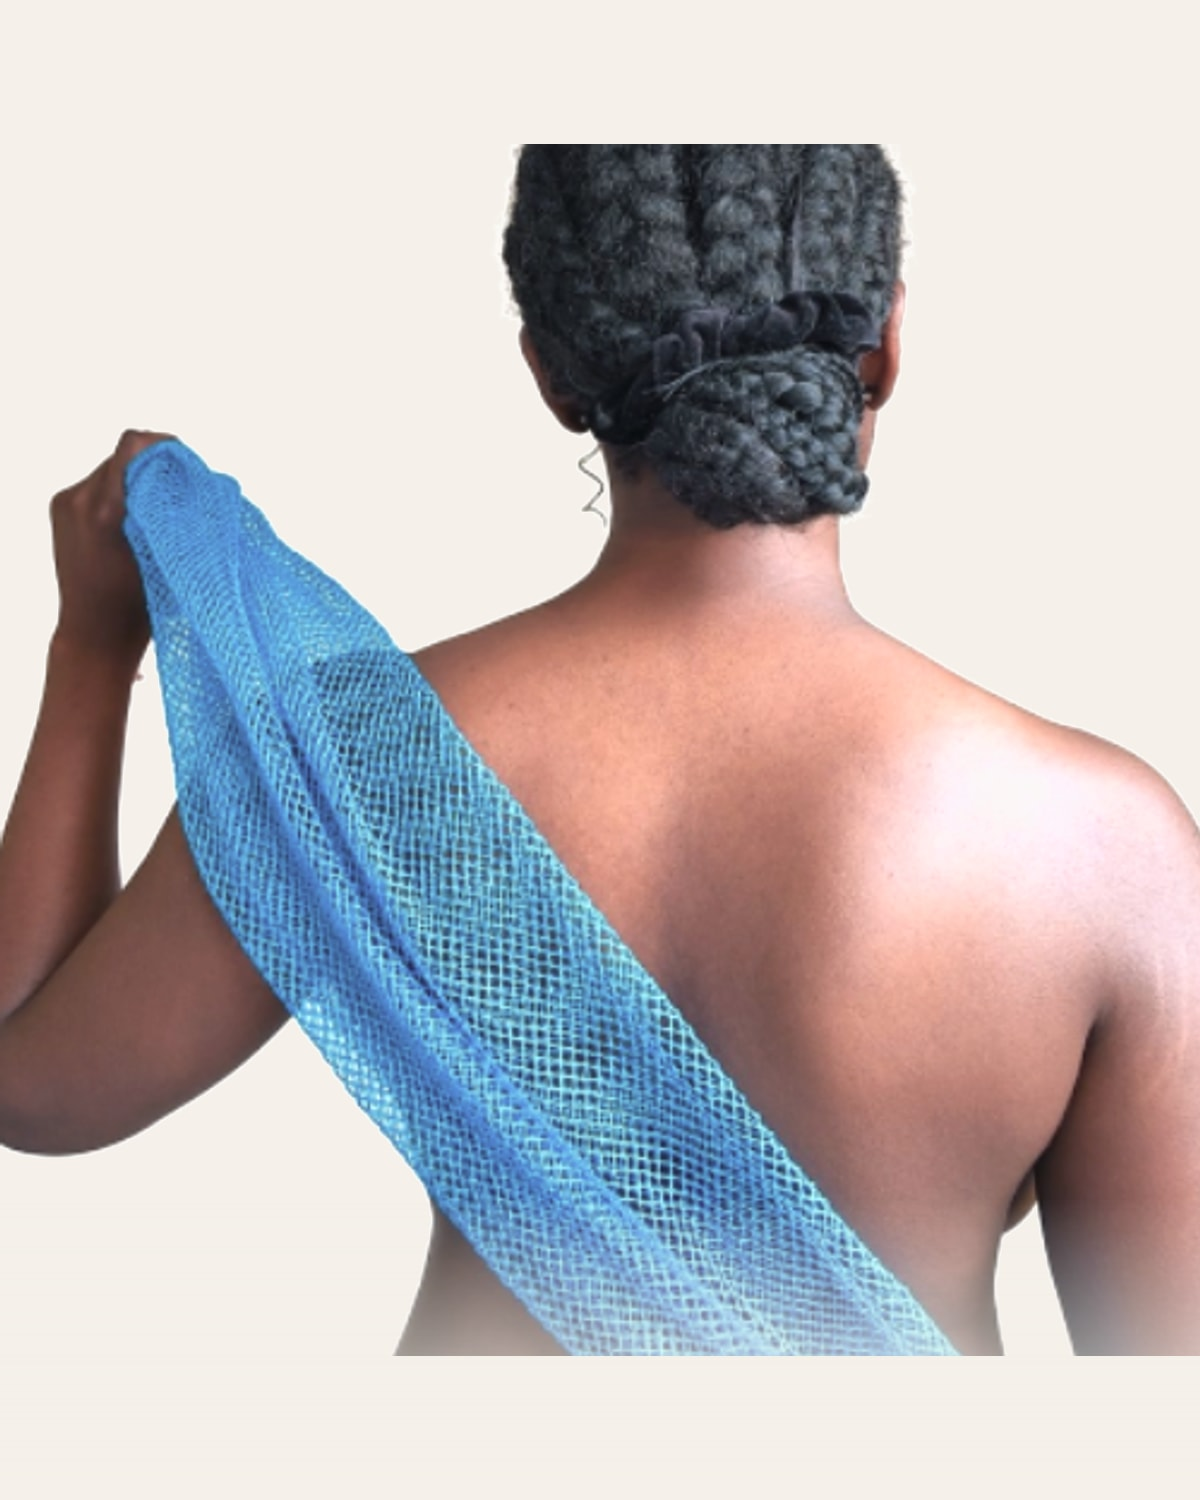
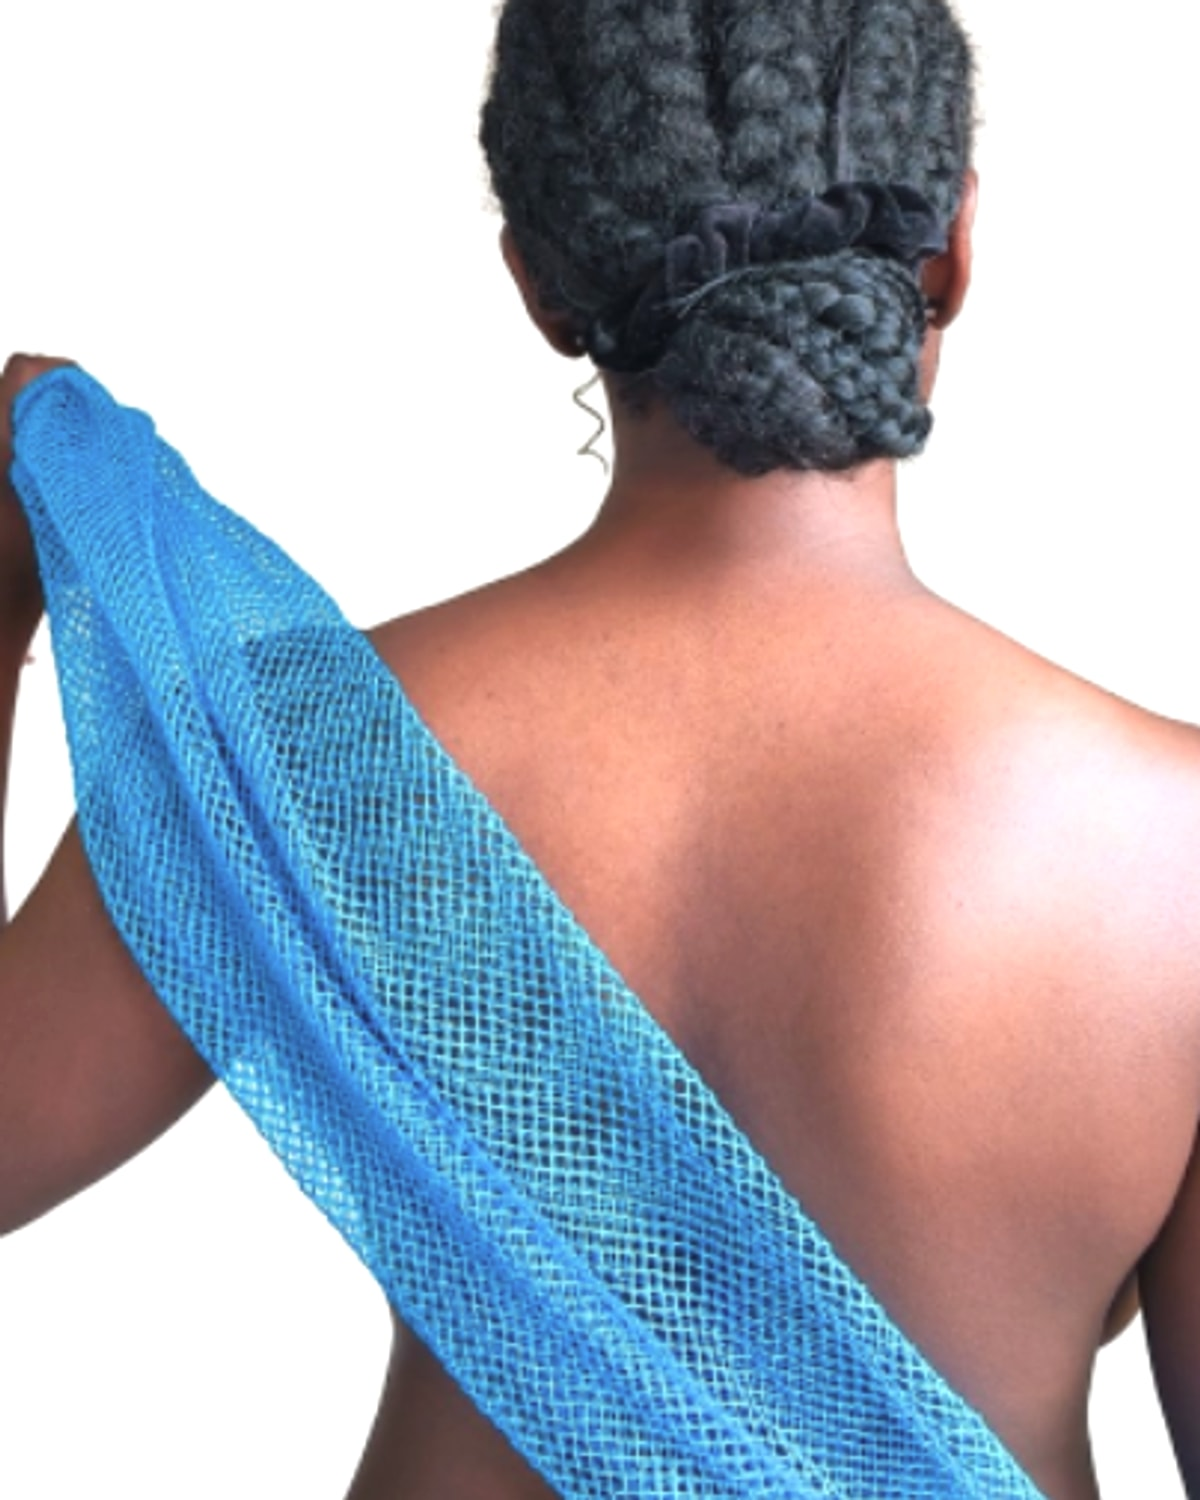
fix: let the product photography own the screen
The collection read as empty, and the cause was not the layout spacing — it
was that the subjects did not fill their own frames and the page had no
visual density to hold them.

Photography. The miswak was occupying 11% of its frame: a small stick lying
across a large cream field, which at card size reads as an empty rectangle
with something in it. A stick lying diagonally in a landscape frame cannot
fill a portrait one at any crop, because its bounding box is the wrong shape,
so it is rotated steep first and then cropped — it now runs corner to corner.
The six model shots had the same problem less obviously: each was centred with
cream bands down both sides, so a row of cards showed product floating rather
than product filling. All six are re-cropped from the original PNGs so the
sponge reaches the edges.

Re-cropping from the already-processed JPEGs was tried first for two more
images and reverted: zooming a graded, compressed frame compounds its own
artefacts, and the result was visibly blocky. Anything re-cropped has to come
from the original.

Layout. ProductSpotlight capped its image at max-w-lg and centred it, putting
a 512px photograph in the middle of a 1440px band of flat colour — three of
those stacked is most of why the homepage felt sparse. The photograph now
bleeds to the edge of the viewport and fills the full height of the block,
which is a 41% larger image in a block that is 260px shorter.
[…]

diff --git a/components/ProductSpotlight.tsx b/components/ProductSpotlight.tsx
@@ -17,10 +17,17 @@ type ProductSpotlightProps = {
 /**
  * Full-width product block on a solid accent ground.
  *
+ * The photograph bleeds to the edge of the viewport and fills the full height
+ * of the block. It used to be capped at `max-w-lg` and centred inside its
+ * column, which put a 512px image in the middle of a 1440px band of flat
+ * colour — the product ended up as a small tile surrounded by paint, and three
+ * of these stacked made the homepage read as mostly empty. A photograph given
+ * half the screen is the whole point of a spotlight.
+ *
  * The image has two states — the packed shot and the detail shot. Hover swaps
  * them on pointer devices; on touch, where hover does not exist, an explicit
- * toggle button does the same job. Text colour is derived from the accent so
- * contrast holds if the palette grows.
+ * toggle does the same job. Text colour is derived from the accent so contrast
+ * holds if the palette grows.
  */
 export default function ProductSpotlight({ product, reversed = false }: ProductSpotlightProps) {
   const [open, setOpen] = useState(false);
@@ -35,57 +42,43 @@ export default function ProductSpotlight({ product, reversed = false }: ProductS
       aria-labelledby={`spotlight-${product.slug}`}
     >
       <div
-        className={`edge grid items-center gap-10 py-section md:grid-cols-2 md:gap-16 ${
+        className={`grid items-stretch md:grid-cols-2 ${
           reversed ? "md:[&>*:first-child]:order-2" : ""
         }`}
       >
         <motion.div
-          className="relative"
+          className="relative aspect-[4/5] w-full sm:aspect-[16/11] md:aspect-auto md:min-h-[34rem] lg:min-h-[40rem]"
           initial={{ opacity: 0, y: reduceMotion ? 0 : 40 }}
           whileInView={{ opacity: 1, y: 0 }}
           viewport={{ once: true, margin: "-100px" }}
           transition={{ duration: 0.9, ease: [0.22, 1, 0.36, 1] }}
+          onMouseEnter={() => setOpen(true)}
+          onMouseLeave={() => setOpen(false)}
         >
-          <div
-            className="relative mx-auto aspect-[4/5] w-full max-w-lg overflow-hidden"
-            onMouseEnter={() => setOpen(true)}
-            onMouseLeave={() => setOpen(false)}
-          >
-            <Image
-              src={product.images.main}
-              alt={`${product.name}, packed`}
-              fill
-              sizes="(min-width: 768px) 45vw, 90vw"
-              className={`object-cover transition-opacity duration-[900ms] ease-editorial ${
-                open ? "opacity-0" : "opacity-100"
-              }`}
-            />
-            <Image
-              src={product.images.alt}
-              alt={`${product.name}, in detail`}
-              fill
-              sizes="(min-width: 768px) 45vw, 90vw"
-              className={`object-cover transition-opacity duration-[900ms] ease-editorial ${
-                open ? "opacity-100" : "opacity-0"
-              }`}
-            />
-          </div>
-
-          {/* Touch devices get an explicit control for the same state. */}
-          <button
-            type="button"
-            onClick={() => setOpen((value) => !value)}
-            aria-pressed={open}
-            className={`mx-auto mt-5 flex items-center gap-2 rounded-full border px-5 py-2.5 text-[0.68rem] uppercase tracking-[0.18em] transition-opacity hover:opacity-70 md:hidden ${
-              isLightText ? "border-cream/40" : "border-charcoal/25"
+          <Image
+            src={product.images.main}
+            alt={`${product.name}, packed`}
+            fill
+            sizes="(min-width: 768px) 50vw, 100vw"
+            className={`object-cover transition-opacity duration-[900ms] ease-editorial ${
+              open ? "opacity-0" : "opacity-100"
             }`}
-          >
-            {open ? "See it packed" : "See the detail"}
-          </button>
+          />
+          <Image
+            src={product.images.alt}
+            alt={`${product.name}, in detail`}
+            fill
+            sizes="(min-width: 768px) 50vw, 100vw"
+            className={`object-cover transition-opacity duration-[900ms] ease-editorial ${
+              open ? "opacity-100" : "opacity-0"
+            }`}
+          />
         </motion.div>
 
         <motion.div
-          className={reversed ? "md:pr-8" : "md:pl-8"}
+          className={`flex flex-col justify-center px-gutter py-section ${
+            reversed ? "md:pr-gutter md:pl-12 lg:pl-20" : "md:pl-gutter md:pr-12 lg:pr-20"
+          }`}
           initial={{ opacity: 0, y: reduceMotion ? 0 : 32 }}
           whileInView={{ opacity: 1, y: 0 }}
           viewport={{ once: true, margin: "-100px" }}
@@ -108,9 +101,20 @@ export default function ProductSpotlight({ product, reversed = false }: ProductS
 
           <p className="mt-8 font-serif text-2xl tabular-nums">{formatPrice(product.price)}</p>
 
+          <button
+            type="button"
+            onClick={() => setOpen((value) => !value)}
+            aria-pressed={open}
+            className={`mt-6 self-start text-[0.68rem] uppercase tracking-[0.18em] underline underline-offset-4 transition-opacity hover:opacity-70 md:hidden ${
+              isLightText ? "text-cream/75" : "text-charcoal/65"
+            }`}
+          >
+            {open ? "See it packed" : "See the detail"}
+          </button>
+
           <Link
             href={`/products/${product.slug}`}
-            className={`mt-8 inline-flex items-center gap-3 rounded-full px-8 py-4 text-[0.72rem] uppercase tracking-[0.2em] transition-transform duration-500 ease-editorial hover:-translate-y-0.5 ${
+            className={`mt-8 inline-flex w-fit items-center gap-3 rounded-full px-8 py-4 text-[0.72rem] uppercase tracking-[0.2em] transition-transform duration-500 ease-editorial hover:-translate-y-0.5 ${
               isLightText ? "bg-cream text-charcoal" : "bg-charcoal text-cream"
             }`}
           >

diff --git a/tailwind.config.ts b/tailwind.config.ts
@@ -39,7 +39,11 @@ const config: Config = {
         editorial: "38rem",
       },
       spacing: {
-        section: "clamp(4.5rem, 9vw, 9rem)",
+        // Stacked sections each carry this top AND bottom, so the gap between
+        // two of them is double. At the old 9rem that was 288px of empty
+        // ground at every boundary — a third of a laptop screen spent on
+        // nothing, which is most of why the product grids read as sparse.
+        section: "clamp(3.5rem, 7vw, 7rem)",
         gutter: "clamp(1.25rem, 4vw, 3.5rem)",
       },
       transitionTimingFunction: {

diff --git a/components/ProductCard.tsx b/components/ProductCard.tsx
@@ -51,7 +51,10 @@ export default function ProductCard({
         onBlur={() => setActive(false)}
       >
         <div
-          className="relative aspect-[4/5] w-full overflow-hidden"
+          // 3:4 rather than 4:5 — a taller frame gives the photograph more
+          // of the screen, and object-cover trims the sides rather than the
+          // top and bottom, so nothing is cropped off a subject's head.
+          className="relative aspect-[3/4] w-full overflow-hidden"
           style={{ backgroundColor: product.accentColor }}
         >
           <Image

diff --git a/app/products/[slug]/page.tsx b/app/products/[slug]/page.tsx
@@ -120,7 +120,7 @@ export default function ProductPage({ params }: PageProps) {
             </h2>
           </Reveal>
 
-          <div className="mt-12 grid gap-x-6 gap-y-14 sm:grid-cols-2 lg:grid-cols-3">
+          <div className="mt-12 grid gap-x-5 gap-y-12 sm:grid-cols-2 lg:grid-cols-3">
             {related.map((item, index) => (
               <ProductCard key={item.slug} product={item} index={index} showFromPrefix={false} />
             ))}

diff --git a/components/ShopGrid.tsx b/components/ShopGrid.tsx
@@ -84,7 +84,7 @@ export default function ShopGrid({ products }: { products: Product[] }) {
         {visible.length} {visible.length === 1 ? "product" : "products"}
       </p>
 
-      <div className="mt-8 grid gap-x-6 gap-y-14 sm:grid-cols-2 lg:grid-cols-3">
+      <div className="mt-8 grid gap-x-5 gap-y-12 sm:grid-cols-2 lg:grid-cols-3">
         {visible.map((product, index) => (
           <ProductCard
             key={product.slug}

diff --git a/app/page.tsx b/app/page.tsx
@@ -103,7 +103,7 @@ export default function HomePage() {
           Featured products
         </h2>
 
-        <div className="mt-14 grid gap-x-6 gap-y-14 sm:grid-cols-2 lg:grid-cols-3">
+        <div className="mt-12 grid gap-x-5 gap-y-12 sm:grid-cols-2 lg:grid-cols-3">
           {featured.map((product, index) => (
             <ProductCard key={product.slug} product={product} index={index} priority={index === 0} />
           ))}
